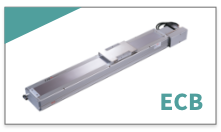
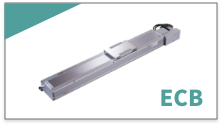
1.力矩數值驗證 2.形狀圖片修正 3.側邊欄圖片修正 4.GTH測試資料新增

diff --git a/SingleAxis_NoMotor_SelectionSoftware/Frontend/FormMain.designer.cs b/SingleAxis_NoMotor_SelectionSoftware/Frontend/FormMain.designer.cs
@@ -43,7 +43,6 @@
             this.cmdZoom = new System.Windows.Forms.PictureBox();
             this.cmdClose = new System.Windows.Forms.PictureBox();
             this.panel4 = new System.Windows.Forms.Panel();
-            this.toolTip1 = new System.Windows.Forms.ToolTip(this.components);
             this.tabMain = new SingleAxis_NoMotor_SelectionSoftware.CustomTabControl();
             this.tabStart = new System.Windows.Forms.TabPage();
             this.tableLayoutPanel2 = new System.Windows.Forms.TableLayoutPanel();
@@ -375,6 +374,7 @@
             this.cmdResetStep5 = new CustomButton.CustomButton();
             this.label51 = new System.Windows.Forms.Label();
             this.label56 = new System.Windows.Forms.Label();
+            this.toolTip1 = new System.Windows.Forms.ToolTip(this.components);
             this.panelBase.SuspendLayout();
             ((System.ComponentModel.ISupportInitialize)(this.splitContainerBase)).BeginInit();
             this.splitContainerBase.Panel1.SuspendLayout();
@@ -636,15 +636,6 @@
             this.panel4.Controls.Add(this.tabMain);
             resources.ApplyResources(this.panel4, "panel4");
             this.panel4.Name = "panel4";
-            // 
-            // toolTip1
-            // 
-            this.toolTip1.AutoPopDelay = 50000;
-            this.toolTip1.InitialDelay = 500;
-            this.toolTip1.IsBalloon = true;
-            this.toolTip1.ReshowDelay = 100;
-            this.toolTip1.ToolTipIcon = System.Windows.Forms.ToolTipIcon.Info;
-            this.toolTip1.ToolTipTitle = "變更非標準馬達時請注意";
             // 
             // tabMain
             // 
@@ -968,7 +959,7 @@
             // pictureBox9
             // 
             resources.ApplyResources(this.pictureBox9, "pictureBox9");
-            this.pictureBox9.Image = global::SingleAxis_NoMotor_SelectionSoftware.Properties.Resources.slideModel_GTYSlide;
+            this.pictureBox9.Image = global::SingleAxis_NoMotor_SelectionSoftware.Properties.Resources.slideModel_singleSlide;
             this.pictureBox9.Name = "pictureBox9";
             this.pictureBox9.TabStop = false;
             // 
@@ -1059,7 +1050,7 @@
             // pictureBox14
             // 
             resources.ApplyResources(this.pictureBox14, "pictureBox14");
-            this.pictureBox14.Image = global::SingleAxis_NoMotor_SelectionSoftware.Properties.Resources.YLModel;
+            this.pictureBox14.Image = global::SingleAxis_NoMotor_SelectionSoftware.Properties.Resources.screwModel;
             this.pictureBox14.Name = "pictureBox14";
             this.pictureBox14.TabStop = false;
             // 
@@ -3254,6 +3245,15 @@
             this.label56.BackColor = System.Drawing.Color.LightGray;
             this.label56.Name = "label56";
             // 
+            // toolTip1
+            // 
+            this.toolTip1.AutoPopDelay = 50000;
+            this.toolTip1.InitialDelay = 500;
+            this.toolTip1.IsBalloon = true;
+            this.toolTip1.ReshowDelay = 100;
+            this.toolTip1.ToolTipIcon = System.Windows.Forms.ToolTipIcon.Info;
+            this.toolTip1.ToolTipTitle = "變更非標準馬達時請注意";
+            // 
             // FormMain
             // 
             resources.ApplyResources(this, "$this");
@@ -3261,6 +3261,7 @@
             this.Controls.Add(this.panelBase);
             this.FormBorderStyle = System.Windows.Forms.FormBorderStyle.None;
             this.Name = "FormMain";
+            this.Opacity = 0D;
             this.Load += new System.EventHandler(this.FormMain_Load);
             this.Resize += new System.EventHandler(this.FormMain_Resize);
             this.panelBase.ResumeLayout(false);

diff --git a/SingleAxis_NoMotor_SelectionSoftware/Frontend/InputValidate.cs b/SingleAxis_NoMotor_SelectionSoftware/Frontend/InputValidate.cs
@@ -43,6 +43,8 @@ namespace SingleAxis_NoMotor_SelectionSoftware {
                 if (control is TextBox) {
                     TextBox txt = control as TextBox;
                     txt.KeyPress += InputCondition_KeyPress;
+                    txt.Validating += InputCondition_Validating;
+                    txt.KeyDown += InputCondition_KeyDown;
                 }
             }
 
@@ -160,7 +162,7 @@ namespace SingleAxis_NoMotor_SelectionSoftware {
             //    formMain.labelLoadAlarm.Text = "請輸入有效荷重";
 
             // 有效數值驗證
-            Control lbAlarm = formMain.panelCalc.Controls.All().First(c => c.Tag == txt.Name);
+            Control lbAlarm = formMain.panelCalc.Controls.All().Concat(formMain.panelMoment.Controls.All()).First(c => c.Tag == txt.Name);
             lbAlarm.Visible = !decimal.TryParse(txt.Text, out decimal value);
             //if (!decimal.TryParse(txt.Text, out value))
             //    e.Cancel = true;
@@ -179,7 +181,7 @@ namespace SingleAxis_NoMotor_SelectionSoftware {
             //    formMain.labelLoadAlarm.Text = "請輸入有效荷重";
 
             // 有效數值驗證
-            Control lbAlarm = formMain.panelCalc.Controls.All().First(c => c.Tag == txt.Name);
+            Control lbAlarm = formMain.panelCalc.Controls.All().Concat(formMain.panelMoment.Controls.All()).First(c => c.Tag == txt.Name);
             lbAlarm.Visible = !decimal.TryParse(txt.Text, out decimal value);
         }
 
@@ -236,7 +238,7 @@ namespace SingleAxis_NoMotor_SelectionSoftware {
             bool isVerifySuccess = true;
 
             // TextBox數值有效驗證            
-            foreach (Control control in formMain.panelCalc.Controls.All()) {
+            foreach (Control control in formMain.panelCalc.Controls.All().Concat(formMain.panelMoment.Controls.All())) {
                 if (control is TextBox) {
                     TextBox txt = control as TextBox;
                     // show alarm

diff --git a/SingleAxis_NoMotor_SelectionSoftware/Frontend/FormMain.cs b/SingleAxis_NoMotor_SelectionSoftware/Frontend/FormMain.cs
@@ -24,10 +24,10 @@ namespace SingleAxis_NoMotor_SelectionSoftware {
 
         private string version;
         //private int trailVersionUseDays = 0;    // 試用版使用期限(天數)
-        private DateTime trailVersionDateTime = new DateTime(2021, 12, 31);
+        private DateTime trailVersionDateTime = new DateTime(2021, 8, 27);
 
         public FormMain() {
-            InitializeComponent();            
+            InitializeComponent();
 
             // 標題列
             ToyoBorder toyoBorder = new ToyoBorder(this);
@@ -88,7 +88,7 @@ namespace SingleAxis_NoMotor_SelectionSoftware {
             //            page2.calc.modelTypeInfo = FileUtil.ReadCsv(Config.MODEL_TYPE_INFO_FILENAME);
             //        }
             //    }
-            //}
+            //}            
 
             // 取得當前版本
             Assembly assembly = Assembly.GetExecutingAssembly();
@@ -99,9 +99,12 @@ namespace SingleAxis_NoMotor_SelectionSoftware {
             // 到期日判斷
             //UseDaysLimit();
             VerifyDateTimeLimit();
+            Opacity = 100;
 
+            // 側邊欄隱藏
             panelSideTable.Anchor = AnchorStyles.Right;
             tabSideTableImg.Multiline = true;
+
         }
 
         private void FormMain_Resize(object sender, EventArgs e) {
